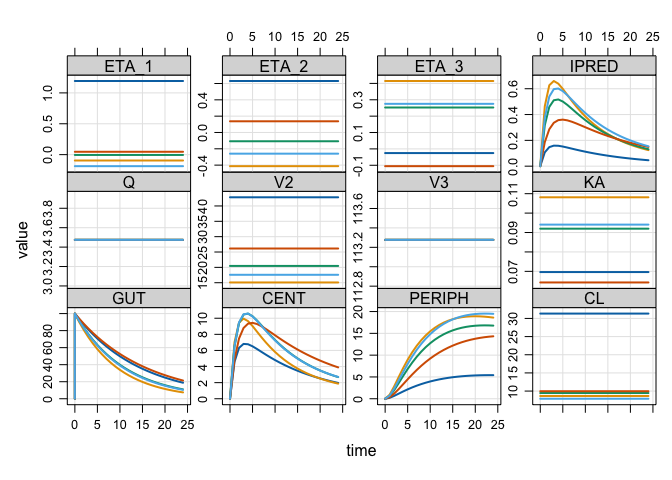
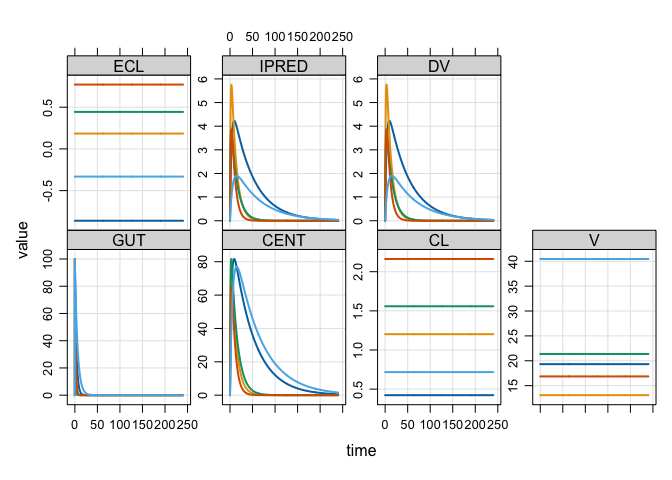
change readme model

diff --git a/README.md b/README.md
@@ -26,7 +26,7 @@ We will illustrate mrgsim.ds by doing a simulation.
 ``` r
 library(mrgsim.ds)
 
-mod <- modlib_ds("1005", Req = "IPRED")
+mod <- modlib_ds("popex", Req = "IPRED")
 
 data <- expand.ev(amt = 100, ID = 1:1000)
 ```
@@ -37,27 +37,18 @@ mrgsim.ds provides a new `mrgsim()` variant - `mrgsim_ds()`:
 out <- mrgsim_ds(mod, data)
 
 out
-. Model: 1005
-. Dim  : 26,000 14
-. Files: 1 [1015.5 Kb]
-.     ID time       GUT     CENT    PERIPH       CL        Q       V2       V3
-. 1:   1    0   0.00000 0.000000 0.0000000 31.33487 3.474506 42.82186 113.2767
-. 2:   1    0 100.00000 0.000000 0.0000000 31.33487 3.474506 42.82186 113.2767
-. 3:   1    1  93.27363 4.584666 0.2116820 31.33487 3.474506 42.82186 113.2767
-. 4:   1    2  86.99971 6.317642 0.6532843 31.33487 3.474506 42.82186 113.2767
-. 5:   1    3  81.14779 6.809088 1.1633157 31.33487 3.474506 42.82186 113.2767
-. 6:   1    4  75.68949 6.769677 1.6728714 31.33487 3.474506 42.82186 113.2767
-. 7:   1    5  70.59834 6.512441 2.1538103 31.33487 3.474506 42.82186 113.2767
-. 8:   1    6  65.84963 6.174665 2.5958522 31.33487 3.474506 42.82186 113.2767
-.             KA   ETA_1     ETA_2       ETA_3     IPRED
-. 1:  0.06963272 1.19261 0.6306834 -0.02553457 0.0000000
-. 2:  0.06963272 1.19261 0.6306834 -0.02553457 0.0000000
-. 3:  0.06963272 1.19261 0.6306834 -0.02553457 0.1070637
-. 4:  0.06963272 1.19261 0.6306834 -0.02553457 0.1475331
-. 5:  0.06963272 1.19261 0.6306834 -0.02553457 0.1590096
-. 6:  0.06963272 1.19261 0.6306834 -0.02553457 0.1580893
-. 7:  0.06963272 1.19261 0.6306834 -0.02553457 0.1520822
-. 8:  0.06963272 1.19261 0.6306834 -0.02553457 0.1441942
+. Model: popex
+. Dim  : 482.0K 9
+. Files: 1 [16 Mb]
+.     ID time       GUT     CENT        CL        V      ECL    IPRED       DV
+. 1:   1  0.0   0.00000  0.00000 0.4226588 19.32448 -0.86119 0.000000 0.000000
+. 2:   1  0.0 100.00000  0.00000 0.4226588 19.32448 -0.86119 0.000000 0.000000
+. 3:   1  0.5  85.78377 14.13680 0.4226588 19.32448 -0.86119 0.731549 0.731549
+. 4:   1  1.0  73.58855 26.11013 0.4226588 19.32448 -0.86119 1.351143 1.351143
+. 5:   1  1.5  63.12704 36.22922 0.4226588 19.32448 -0.86119 1.874784 1.874784
+. 6:   1  2.0  54.15275 44.75933 0.4226588 19.32448 -0.86119 2.316198 2.316198
+. 7:   1  2.5  46.45427 51.92798 0.4226588 19.32448 -0.86119 2.687161 2.687161
+. 8:   1  3.0  39.85023 57.93035 0.4226588 19.32448 -0.86119 2.997770 2.997770
 ```
 
 The output object doesn’t actually carry the simulated data, but rather
@@ -66,21 +57,16 @@ a pointer to the data in parquet files on your disk.
 ``` r
 as_arrow_ds(out)
 . FileSystemDataset with 1 Parquet file
-. 14 columns
+. 9 columns
 . ID: double
 . time: double
 . GUT: double
 . CENT: double
-. PERIPH: double
 . CL: double
-. Q: double
-. V2: double
-. V3: double
-. KA: double
-. ETA_1: double
-. ETA_2: double
-. ETA_3: double
+. V: double
+. ECL: double
 . IPRED: double
+. DV: double
 . 
 . See $metadata for additional Schema metadata
 ```
